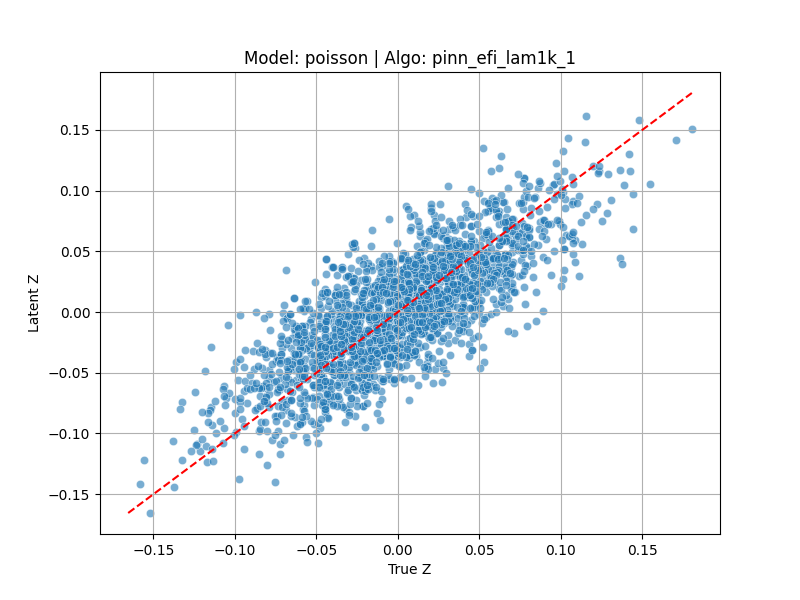
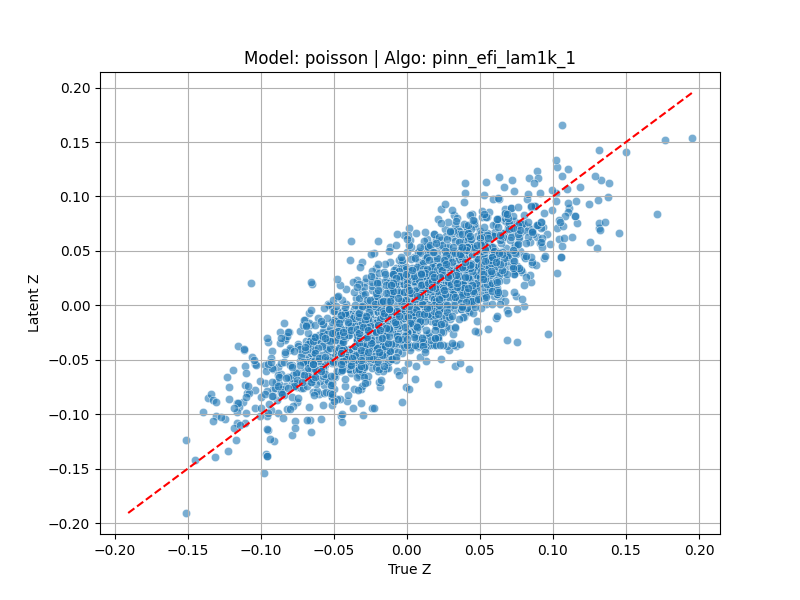
update

diff --git a/PINN/pinn_efi.py b/PINN/pinn_efi.py
@@ -193,14 +193,14 @@ class PINN_EFI(BasePINN):
 
     def update(self):
         # update training parameters
-        annealing_period = 1.0
+        annealing_period = 0.5
         annealing_progress = self.progress / annealing_period
         lambda_pde = self.lambda_pde(annealing_progress)
         lam = self.lam(annealing_progress)
         lambda_theta = self.lambda_theta(annealing_progress)
         self.net.sparse_threshold = self.sparse_threshold(self.progress * 3 - 1)
-        lr = self.lr(self.progress)
-        sgld_lr = self.sgld_lr(self.progress)
+        lr = self.lr(annealing_progress)
+        sgld_lr = self.sgld_lr(annealing_progress)
         self._update_lr(self.optimiser, lr)
         self._update_lr(self.sampler, sgld_lr)
         
